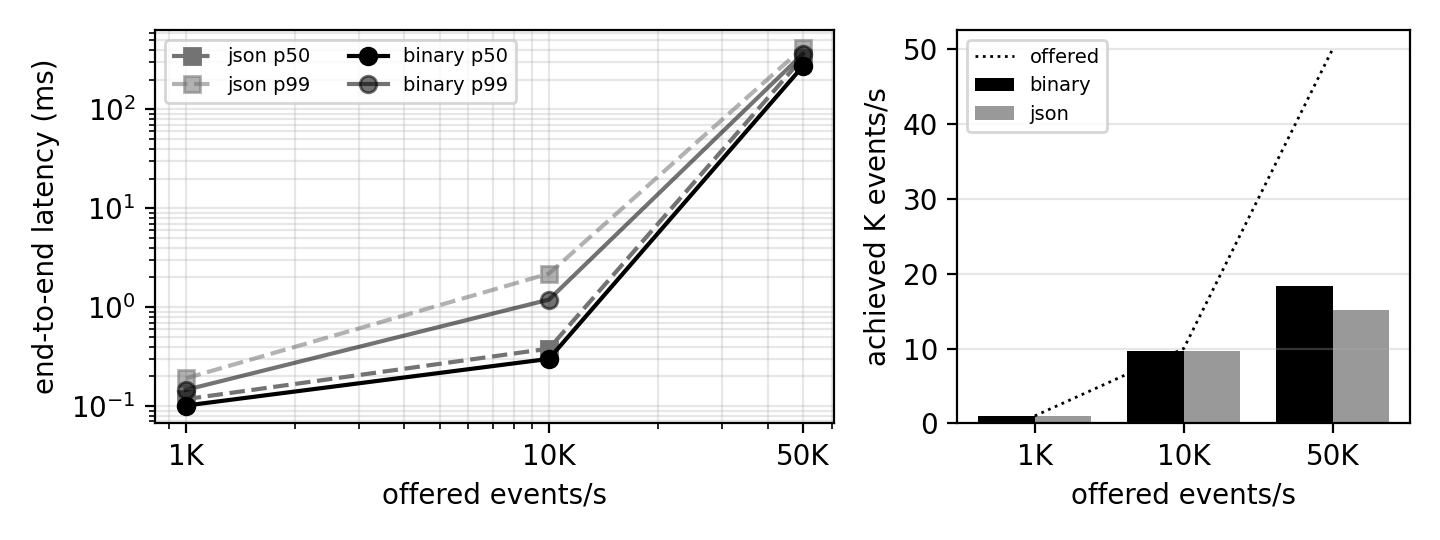
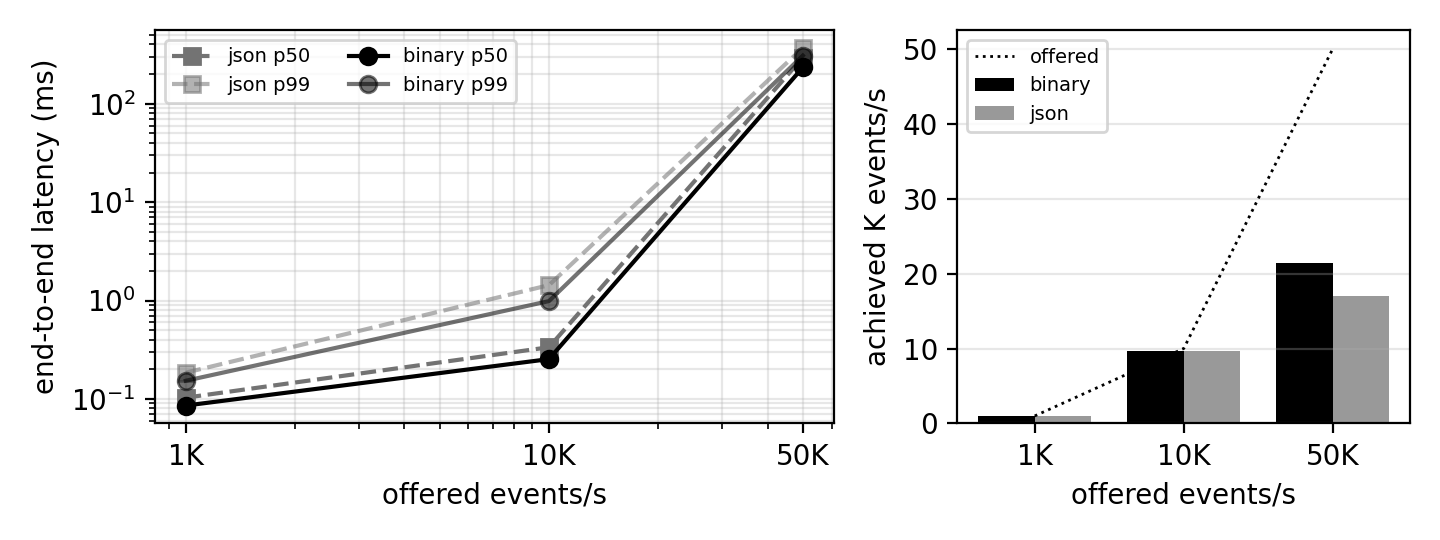
evaluation: E3 table and figure lead with the forest deep path
paper_numbers.py orders the forest row before the MLP row in every E3
cell and adds eThreeBinGainPctRf (binary over JSON at saturation for the
forest; the existing eThreeBinGainPct only ever covered the MLP cells).
plot_e3.py takes --model (rf by default, the module's default since
2026-10-26); the E3 figure under results/2026-11/e3 is regenerated from
the same e3_results.json. No measurement changed.

diff --git a/evaluation/scripts/paper_numbers.py b/evaluation/scripts/paper_numbers.py
@@ -146,14 +146,15 @@ def write_tables(tables_dir, e1, e2, iso, e3=None, e4=None, e5=None):
         rows.append(r"\multicolumn{6}{c}{\textbf{?? isolation results missing}} \\")
     rows += [r"\bottomrule", r"\end{tabular}"]
     (tables_dir / "isolation_table.tex").write_text(GEN + "\n".join(rows) + "\n")
-    # E3 table (Model = ml_detector's deep path: the MLP default or the forest)
+    # E3 table (Model = ml_detector's deep path: RF is the embedded forest, the
+    # default since 2026-10-26, listed first; MLP is the alternative)
     rows = [r"\begin{tabular}{@{}llrrrrrrr@{}}", r"\toprule",
             r"Encoding & Model & Offered & Achieved & p50 & p99 & p99.9 & Detect p50 & RSS \\",
             r" & & ev/s & ev/s & \si{\micro\second} & \si{\micro\second} & \si{\micro\second} & \si{\micro\second} & MiB \\", r"\midrule"]
     if e3:
         def e3_key(cell):
             enc, eps, model = (cell.split("@") + ["mlp"])[:3]
-            return int(eps), enc != "json", model != "mlp"
+            return int(eps), enc != "json", model == "mlp"  # forest rows before MLP rows
         order = sorted(e3["summary"].items(), key=lambda kv: e3_key(kv[0]))
         last = None
         for cell, v in order:
@@ -330,8 +331,8 @@ def main():
         commits["e3"] = e3["provenance"]["git_commit"][:12]
         # One macro set per (encoding, rate, model) of the full grid, so a cell
         # the results lack still defines its macros (as "??"). ...Rf suffix:
-        # ml_detector's deep path on the embedded forest ({"model":"rf"}); no
-        # suffix: the MLP default.
+        # ml_detector's deep path on the embedded forest ({"model":"rf"}, the
+        # default since 2026-10-26); no suffix: the MLP ({"model":"mlp"}).
         for enc in ("json", "binary"):
             for eps in (1000, 10000, 50000):
                 for model in ("mlp", "rf"):
@@ -344,9 +345,12 @@ def main():
                     m.add(f"eThreeRssMiB{suf}", v and v["max_rss_kb"]["mean"] / 1024, "{:.0f}")
                     m.add(f"eThreeDetectPFifty{suf}", v and v["detect_us"]["p50"]["mean"], "{:,.0f}")
                     m.add(f"eThreeDetectPNinetyNine{suf}", v and v["detect_us"]["p99"]["mean"], "{:,.0f}")
-        sat = {enc: v for enc, v in ((c.split("@")[0], v) for c, v in e3["summary"].items() if c.endswith("@50000"))}
-        if "json" in sat and "binary" in sat:
-            m.add("eThreeBinGainPct", 100 * (sat["binary"]["achieved_eps"]["mean"] / sat["json"]["achieved_eps"]["mean"] - 1), "{:.0f}")
+        # Binary-over-JSON gain in sustained throughput at the saturating offered rate,
+        # once per deep path ("@50000" cells are the MLP, "@50000@rf" the forest).
+        for suf, tail in (("", "@50000"), ("Rf", "@50000@rf")):
+            sat = {c.split("@")[0]: v for c, v in e3["summary"].items() if c.endswith(tail)}
+            if "json" in sat and "binary" in sat:
+                m.add(f"eThreeBinGainPct{suf}", 100 * (sat["binary"]["achieved_eps"]["mean"] / sat["json"]["achieved_eps"]["mean"] - 1), "{:.0f}")
     else:
         m.add("eThreeAchievedBinTenK", None)
 

diff --git a/paper-asiaccs/tables/e3_table.tex b/paper-asiaccs/tables/e3_table.tex
@@ -5,19 +5,19 @@
 Encoding & Model & Offered & Achieved & p50 & p99 & p99.9 & Detect p50 & RSS \\
  & & ev/s & ev/s & \si{\micro\second} & \si{\micro\second} & \si{\micro\second} & \si{\micro\second} & MiB \\
 \midrule
-json & MLP & 1,000 & 969 & 118 & 191 & 331 & 105 & 93 \\
 json & RF & 1,000 & 965 & 103 & 185 & 344 & 90 & 99 \\
-binary & MLP & 1,000 & 962 & 101 & 146 & 245 & 89 & 94 \\
+json & MLP & 1,000 & 969 & 118 & 191 & 331 & 105 & 93 \\
 binary & RF & 1,000 & 968 & 86 & 153 & 284 & 73 & 97 \\
+binary & MLP & 1,000 & 962 & 101 & 146 & 245 & 89 & 94 \\
 \addlinespace
-json & MLP & 10,000 & 9,706 & 382 & 2,189 & 6,280 & 81 & 101 \\
 json & RF & 10,000 & 9,685 & 335 & 1,434 & 2,664 & 70 & 105 \\
-binary & MLP & 10,000 & 9,687 & 301 & 1,194 & 1,834 & 70 & 103 \\
+json & MLP & 10,000 & 9,706 & 382 & 2,189 & 6,280 & 81 & 101 \\
 binary & RF & 10,000 & 9,671 & 254 & 987 & 1,466 & 58 & 107 \\
+binary & MLP & 10,000 & 9,687 & 301 & 1,194 & 1,834 & 70 & 103 \\
 \addlinespace
-json & MLP & 50,000 & 15,072 & 333,324 & 419,911 & 437,699 & 82 & 189 \\
 json & RF & 50,000 & 17,044 & 294,724 & 369,420 & 381,873 & 69 & 190 \\
-binary & MLP & 50,000 & 18,277 & 273,616 & 364,278 & 383,935 & 71 & 199 \\
+json & MLP & 50,000 & 15,072 & 333,324 & 419,911 & 437,699 & 82 & 189 \\
 binary & RF & 50,000 & 21,430 & 233,727 & 308,660 & 323,171 & 57 & 197 \\
+binary & MLP & 50,000 & 18,277 & 273,616 & 364,278 & 383,935 & 71 & 199 \\
 \bottomrule
 \end{tabular}

diff --git a/evaluation/scripts/plot_e3.py b/evaluation/scripts/plot_e3.py
@@ -1,6 +1,7 @@
 #!/usr/bin/env python3
 """Plot E3: end-to-end latency percentiles and achieved throughput per offered
-rate, JSON vs binary, from e3_results.json.
+rate, JSON vs binary, from e3_results.json, for one deep path of ml_detector
+(--model rf, the module's default since 2026-10-26, or mlp).
 
   python3 evaluation/scripts/plot_e3.py --results evaluation/results/2026-11/e3
 """
@@ -21,14 +22,15 @@ STYLE = {"json": dict(color="0.45", ls="--", marker="s"), "binary": dict(color="
 def main():
     ap = argparse.ArgumentParser()
     ap.add_argument("--results", type=Path, default=REPO / "evaluation/results/2026-11/e3")
+    ap.add_argument("--model", choices=("rf", "mlp"), default="rf",
+                    help="ml_detector deep path to plot: rf (the default forest) or mlp; the other is in the table only")
     args = ap.parse_args()
     d = json.loads((args.results / "e3_results.json").read_text())
     cells = {}
     for key, v in d["summary"].items():
-        parts = key.split("@")
-        if len(parts) > 2:
-            continue  # ml_detector on the forest ("enc@eps@rf"): in the table, not the figure
-        enc, eps = parts
+        enc, eps, model = (key.split("@") + ["mlp"])[:3]  # "enc@eps" is the MLP, "enc@eps@rf" the forest
+        if model != args.model:
+            continue
         cells.setdefault(enc, {})[int(eps)] = v
     rates = sorted({eps for c in cells.values() for eps in c})
 

diff --git a/paper-asiaccs/tables/numbers.tex b/paper-asiaccs/tables/numbers.tex
@@ -227,6 +227,7 @@
 \newcommand{\eThreeDetectPFiftyBinFiftyKRf}{57}
 \newcommand{\eThreeDetectPNinetyNineBinFiftyKRf}{82}
 \newcommand{\eThreeBinGainPct}{21}
+\newcommand{\eThreeBinGainPctRf}{26}
 \newcommand{\eFourTputNginxNone}{170,989}
 \newcommand{\eFourCpuNginxNone}{0.0}
 \newcommand{\eFourRssNginxNone}{0}
